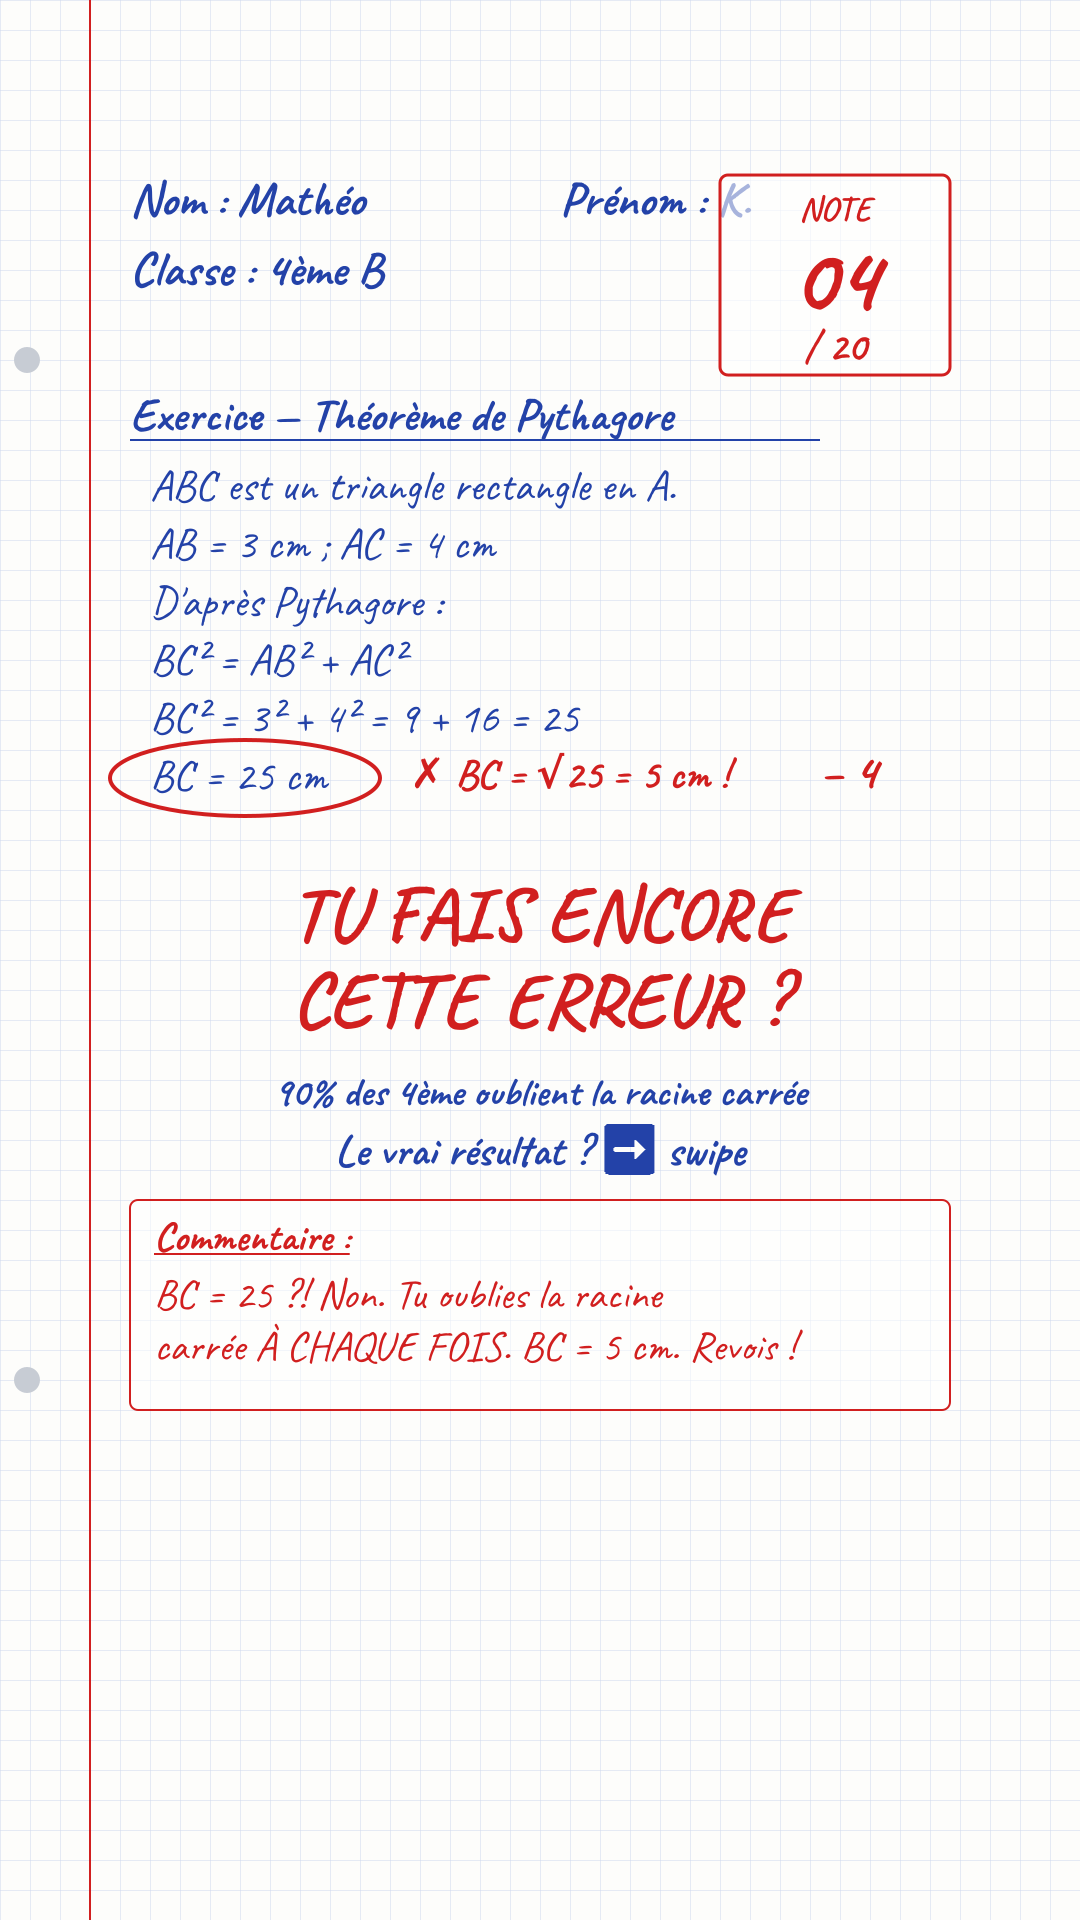
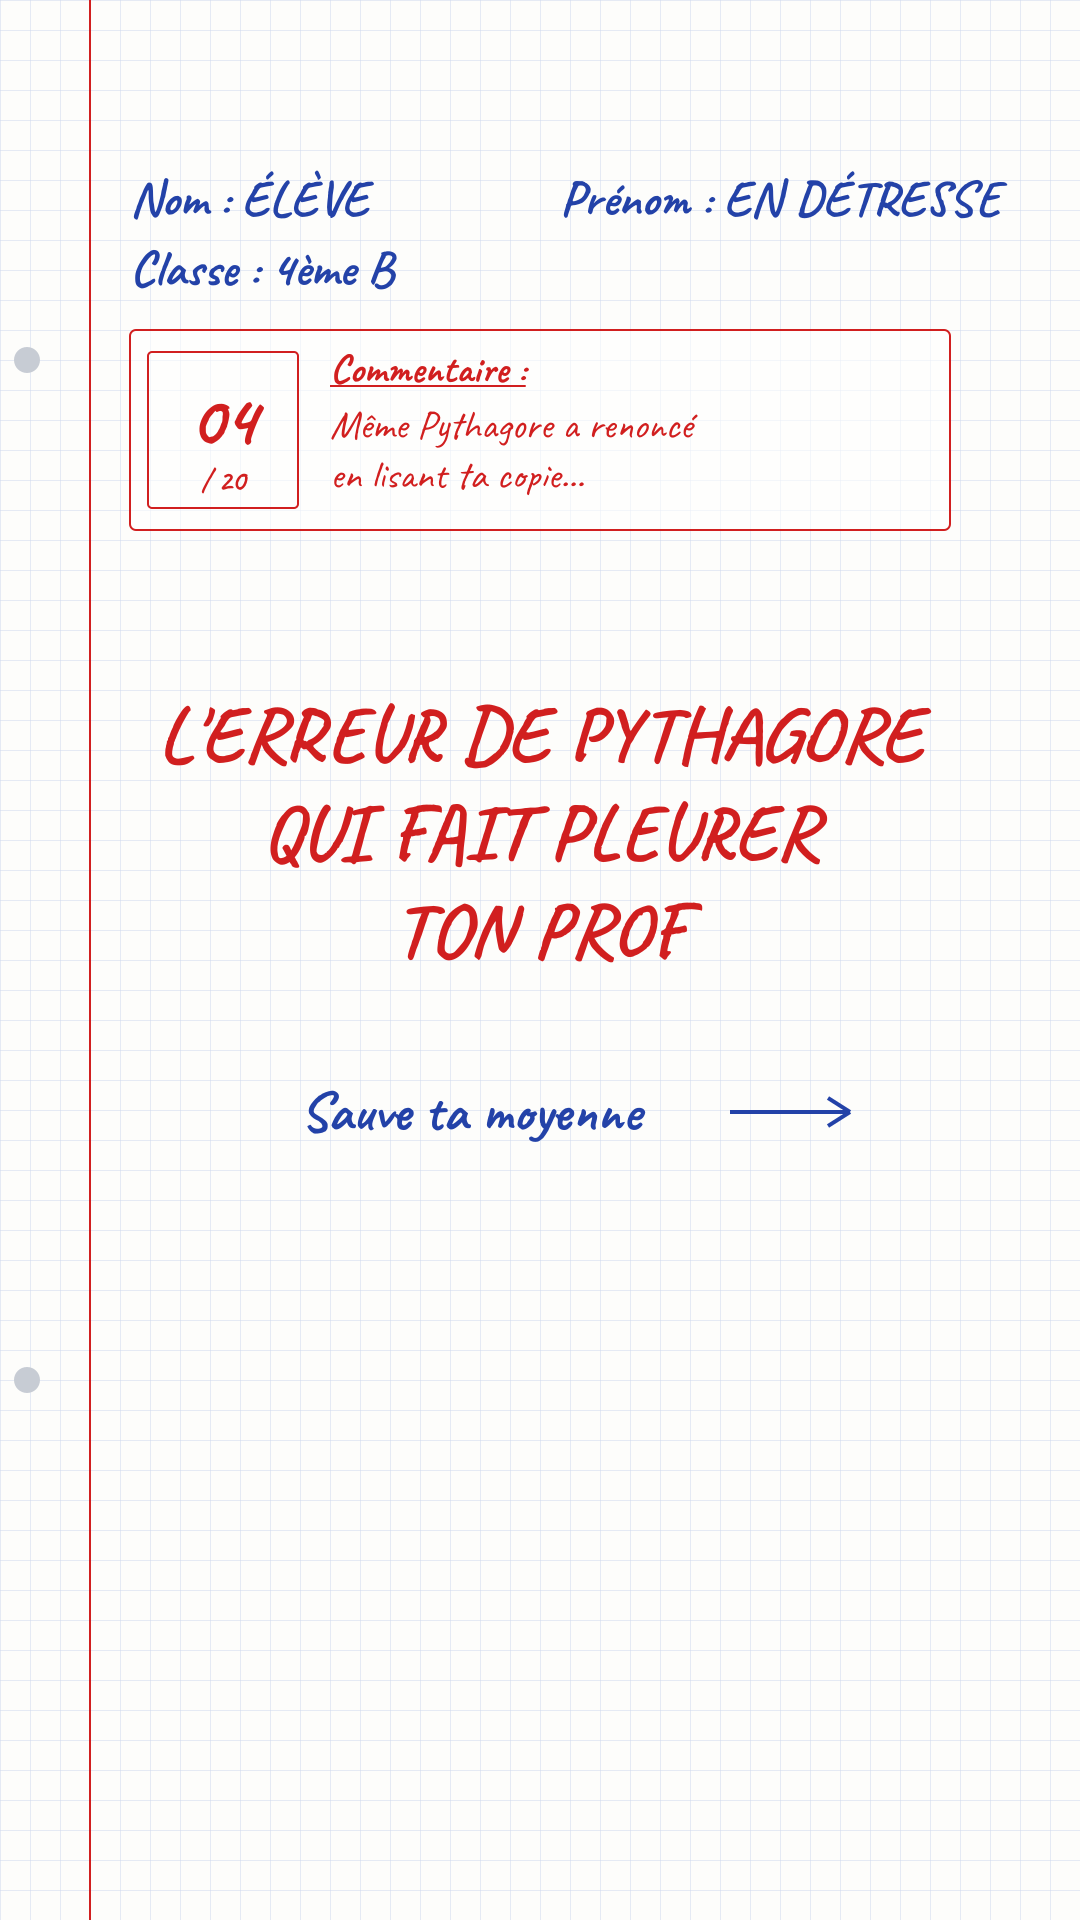
Rework Pythagore hook slide: exam-copy style, comment space, no correction
- Humorous header (Nom: ELEVE / Prenom: EN DETRESSE)
- Espace commentaire box with note 04/20 + witty remark (no math correction)
- Big red handwritten hook like the exam copy + 'Sauve ta moyenne' arrow
- Removed the worked exercise and correction marks

diff --git a/templates/copie-hook-pythagore.html b/templates/copie-hook-pythagore.html
@@ -9,15 +9,17 @@
   <link href="https://fonts.googleapis.com/css2?family=Caveat:wght@500;700&display=swap" rel="stylesheet" />
   <style>
     /* ============================================================
-       SLIDE 1 (HOOK) — Pythagore 4ème — page REMPLIE, mordante
+       SLIDE 1 (HOOK) — Pythagore 4ème — façon copie d'examen
+       Header humoristique + ESPACE COMMENTAIRE (avec note)
+       + gros hook rouge + flèche.  AUCUNE correction.
        Format vertical TikTok 1080x1920, contenu dans la safe zone.
-       Tout est éditable (clique et tape). 📸 Mode capture = nettoie.
+       Champs éditables • 📸 Mode capture nettoie l'écran.
        ============================================================ */
     :root{
       --bleu:#2342a8; --rouge:#d11f1f; --carreau:30px;
       --grille:#cdd7ee; --papier:#fdfdfb;
       --manuscrit:"Caveat","Comic Sans MS","Segoe Print",cursive;
-      --safe-top:160px; --safe-bottom:480px; --safe-right:130px; --safe-left:70px;
+      --safe-top:160px; --safe-bottom:480px; --safe-right:130px;
     }
     *{box-sizing:border-box;}
     html,body{margin:0;padding:0 0 40px;background:#c7ccd4;
@@ -40,7 +42,6 @@
     .trou{position:absolute;left:14px;width:26px;height:26px;border-radius:50%;background:#c7ccd4;box-shadow:inset 0 1px 2px rgba(0,0,0,.3);}
     .trou.h{top:360px;} .trou.b{bottom:540px;}
 
-    /* repères safe zone */
     .repere{position:absolute;pointer-events:none;z-index:5;}
     .repere.haut{top:0;left:0;right:0;height:var(--safe-top);}
     .repere.bas{bottom:0;left:0;right:0;height:var(--safe-bottom);}
@@ -51,40 +52,34 @@
     [contenteditable]{outline:none;}
     body:not(.capture) [contenteditable]:hover{background:rgba(35,66,168,.06);border-radius:4px;}
 
-    .entete{position:absolute;top:var(--safe-top);left:calc(var(--carreau)*4);right:360px;color:var(--bleu);font-family:var(--manuscrit);z-index:2;}
+    /* EN-TÊTE humoristique */
+    .entete{position:absolute;top:var(--safe-top);left:calc(var(--carreau)*4);right:130px;color:var(--bleu);font-family:var(--manuscrit);z-index:2;}
     .ligne{display:flex;align-items:baseline;gap:14px;font-size:50px;margin-bottom:12px;}
     .ligne .label{font-weight:700;white-space:nowrap;}
-    .ligne-nom{display:flex;gap:30px;}
+    .ligne-nom{display:flex;gap:40px;}
     .ligne-nom>div{display:flex;align-items:baseline;gap:12px;}
 
-    .note{position:absolute;top:var(--safe-top);right:var(--safe-right);width:230px;border:3px solid var(--rouge);
-      border-radius:8px;padding:10px 0 16px;text-align:center;color:var(--rouge);background:rgba(255,255,255,.6);
-      font-family:var(--manuscrit);z-index:2;}
-    .note .titre{font-size:34px;font-weight:700;letter-spacing:1px;}
-    .note .valeur{font-size:96px;font-weight:700;line-height:1;}
-    .note .sur{font-size:42px;font-weight:700;}
+    /* ESPACE COMMENTAIRE (cadre + note) */
+    .commentaire{position:absolute;top:330px;left:calc(var(--carreau)*4);right:var(--safe-right);
+      display:flex;gap:22px;border:2px solid var(--rouge);border-radius:6px;padding:18px;
+      background:rgba(255,255,255,.55);font-family:var(--manuscrit);z-index:2;}
+    .commentaire .note{flex:0 0 150px;border:2px solid var(--rouge);border-radius:4px;
+      display:flex;flex-direction:column;align-items:center;justify-content:center;color:var(--rouge);padding:6px 0;}
+    .commentaire .note .val{font-size:74px;font-weight:700;line-height:1;}
+    .commentaire .note .sur{font-size:30px;font-weight:700;}
+    .commentaire .txt{color:var(--rouge);}
+    .commentaire .txt .titre{font-size:40px;font-weight:700;text-decoration:underline;margin-bottom:6px;}
+    .commentaire .txt .corps{font-size:40px;line-height:1.2;}
 
-    /* exercice (copie élève) */
-    .exo{position:absolute;top:400px;left:calc(var(--carreau)*4);right:var(--safe-right);
-      color:var(--bleu);font-family:var(--manuscrit);z-index:2;font-size:44px;line-height:58px;}
-    .exo .titre{font-weight:700;font-size:46px;text-decoration:underline;margin-bottom:8px;}
-    .exo .faux{position:relative;display:inline-block;}
-    .exo .faux::after{content:"";position:absolute;left:-12px;right:-12px;top:50%;height:76px;
-      transform:translateY(-50%);border:4px solid var(--rouge);border-radius:50%;}
-    .exo .corr{color:var(--rouge);font-weight:700;margin-left:30px;}
-    .exo .pts{color:var(--rouge);font-weight:700;float:right;}
+    /* HOOK (gros, façon copie d'examen) */
+    .hook{position:absolute;top:620px;left:60px;right:var(--safe-right);text-align:center;
+      color:var(--rouge);font-family:var(--manuscrit);font-weight:700;font-size:82px;line-height:1.18;z-index:2;}
 
-    /* HOOK mordant */
-    .hook{position:absolute;top:940px;left:60px;right:var(--safe-right);text-align:center;z-index:2;font-family:var(--manuscrit);}
-    .hook .gros{color:var(--rouge);font-weight:700;font-size:80px;line-height:1.05;}
-    .hook .sous{color:var(--bleu);font-weight:700;font-size:42px;margin-top:14px;}
-
-    /* commentaire prof */
-    .commentaire{position:absolute;left:calc(var(--carreau)*4);right:var(--safe-right);top:1200px;
-      border:2px solid var(--rouge);border-radius:8px;padding:14px 22px 22px;color:var(--rouge);
-      background:rgba(255,255,255,.5);font-family:var(--manuscrit);z-index:2;}
-    .commentaire .titre{font-size:38px;font-weight:700;text-decoration:underline;margin-bottom:6px;}
-    .commentaire .zone{font-size:42px;line-height:1.25;}
+    /* FLÈCHE */
+    .fleche{position:absolute;top:1080px;left:calc(var(--carreau)*4);right:var(--safe-right);
+      display:flex;align-items:center;gap:24px;color:var(--bleu);font-family:var(--manuscrit);
+      font-weight:700;font-size:56px;z-index:2;}
+    .fleche svg{flex:0 0 auto;}
   </style>
 </head>
 <body>
@@ -99,45 +94,37 @@
     <div class="repere bas zone"></div>
     <div class="repere droite zone"></div>
 
-    <!-- EN-TÊTE -->
+    <!-- EN-TÊTE humoristique -->
     <div class="entete">
       <div class="ligne ligne-nom">
-        <div><span class="label">Nom :</span> <span contenteditable>Mathéo</span></div>
-        <div><span class="label">Prénom :</span> <span contenteditable>K.</span></div>
+        <div><span class="label">Nom :</span> <span contenteditable>ÉLÈVE</span></div>
+        <div><span class="label">Prénom :</span> <span contenteditable>EN DÉTRESSE</span></div>
       </div>
       <div class="ligne"><span class="label">Classe :</span> <span contenteditable>4ème B</span></div>
     </div>
 
-    <!-- NOTE -->
-    <div class="note">
-      <div class="titre">NOTE</div>
-      <div class="valeur" contenteditable>04</div>
-      <div class="sur">/ 20</div>
-    </div>
-
-    <!-- EXERCICE -->
-    <div class="exo" contenteditable>
-      <div class="titre">Exercice — Théorème de Pythagore</div>
-      ABC est un triangle rectangle en A.<br>
-      AB = 3 cm ; AC = 4 cm<br>
-      D'après Pythagore :<br>
-      BC² = AB² + AC²<br>
-      BC² = 3² + 4² = 9 + 16 = 25<br>
-      <span class="faux">BC = 25 cm</span>
-      <span class="corr">✗ BC = √25 = 5 cm !</span>
-      <span class="pts">− 4</span>
+    <!-- ESPACE COMMENTAIRE -->
+    <div class="commentaire">
+      <div class="note">
+        <span class="val" contenteditable>04</span>
+        <span class="sur">/ 20</span>
+      </div>
+      <div class="txt">
+        <div class="titre">Commentaire</div>
+        <div class="corps" contenteditable>Même Pythagore a renoncé en lisant ta copie...</div>
+      </div>
     </div>
 
     <!-- HOOK -->
-    <div class="hook">
-      <div class="gros" contenteditable>TU FAIS ENCORE<br>CETTE ERREUR ?</div>
-      <div class="sous" contenteditable>90% des 4ème oublient la racine carrée<br>Le vrai résultat ? ➡ swipe</div>
-    </div>
+    <div class="hook" contenteditable>L'ERREUR DE PYTHAGORE<br>QUI FAIT PLEURER<br>TON PROF</div>
 
-    <!-- COMMENTAIRE -->
-    <div class="commentaire">
-      <div class="titre">Commentaire</div>
-      <div class="zone" contenteditable>BC = 25 ?! Non. Tu oublies la racine carrée À CHAQUE FOIS. BC = 5 cm. Revois ta leçon !</div>
+    <!-- FLÈCHE -->
+    <div class="fleche">
+      <span contenteditable>Sauve ta moyenne</span>
+      <svg width="130" height="40" viewBox="0 0 130 40">
+        <line x1="0" y1="20" x2="118" y2="20" stroke="#2342a8" stroke-width="5"/>
+        <path d="M118 20 L96 6 M118 20 L96 34" fill="none" stroke="#2342a8" stroke-width="5"/>
+      </svg>
     </div>
   </div>
 
